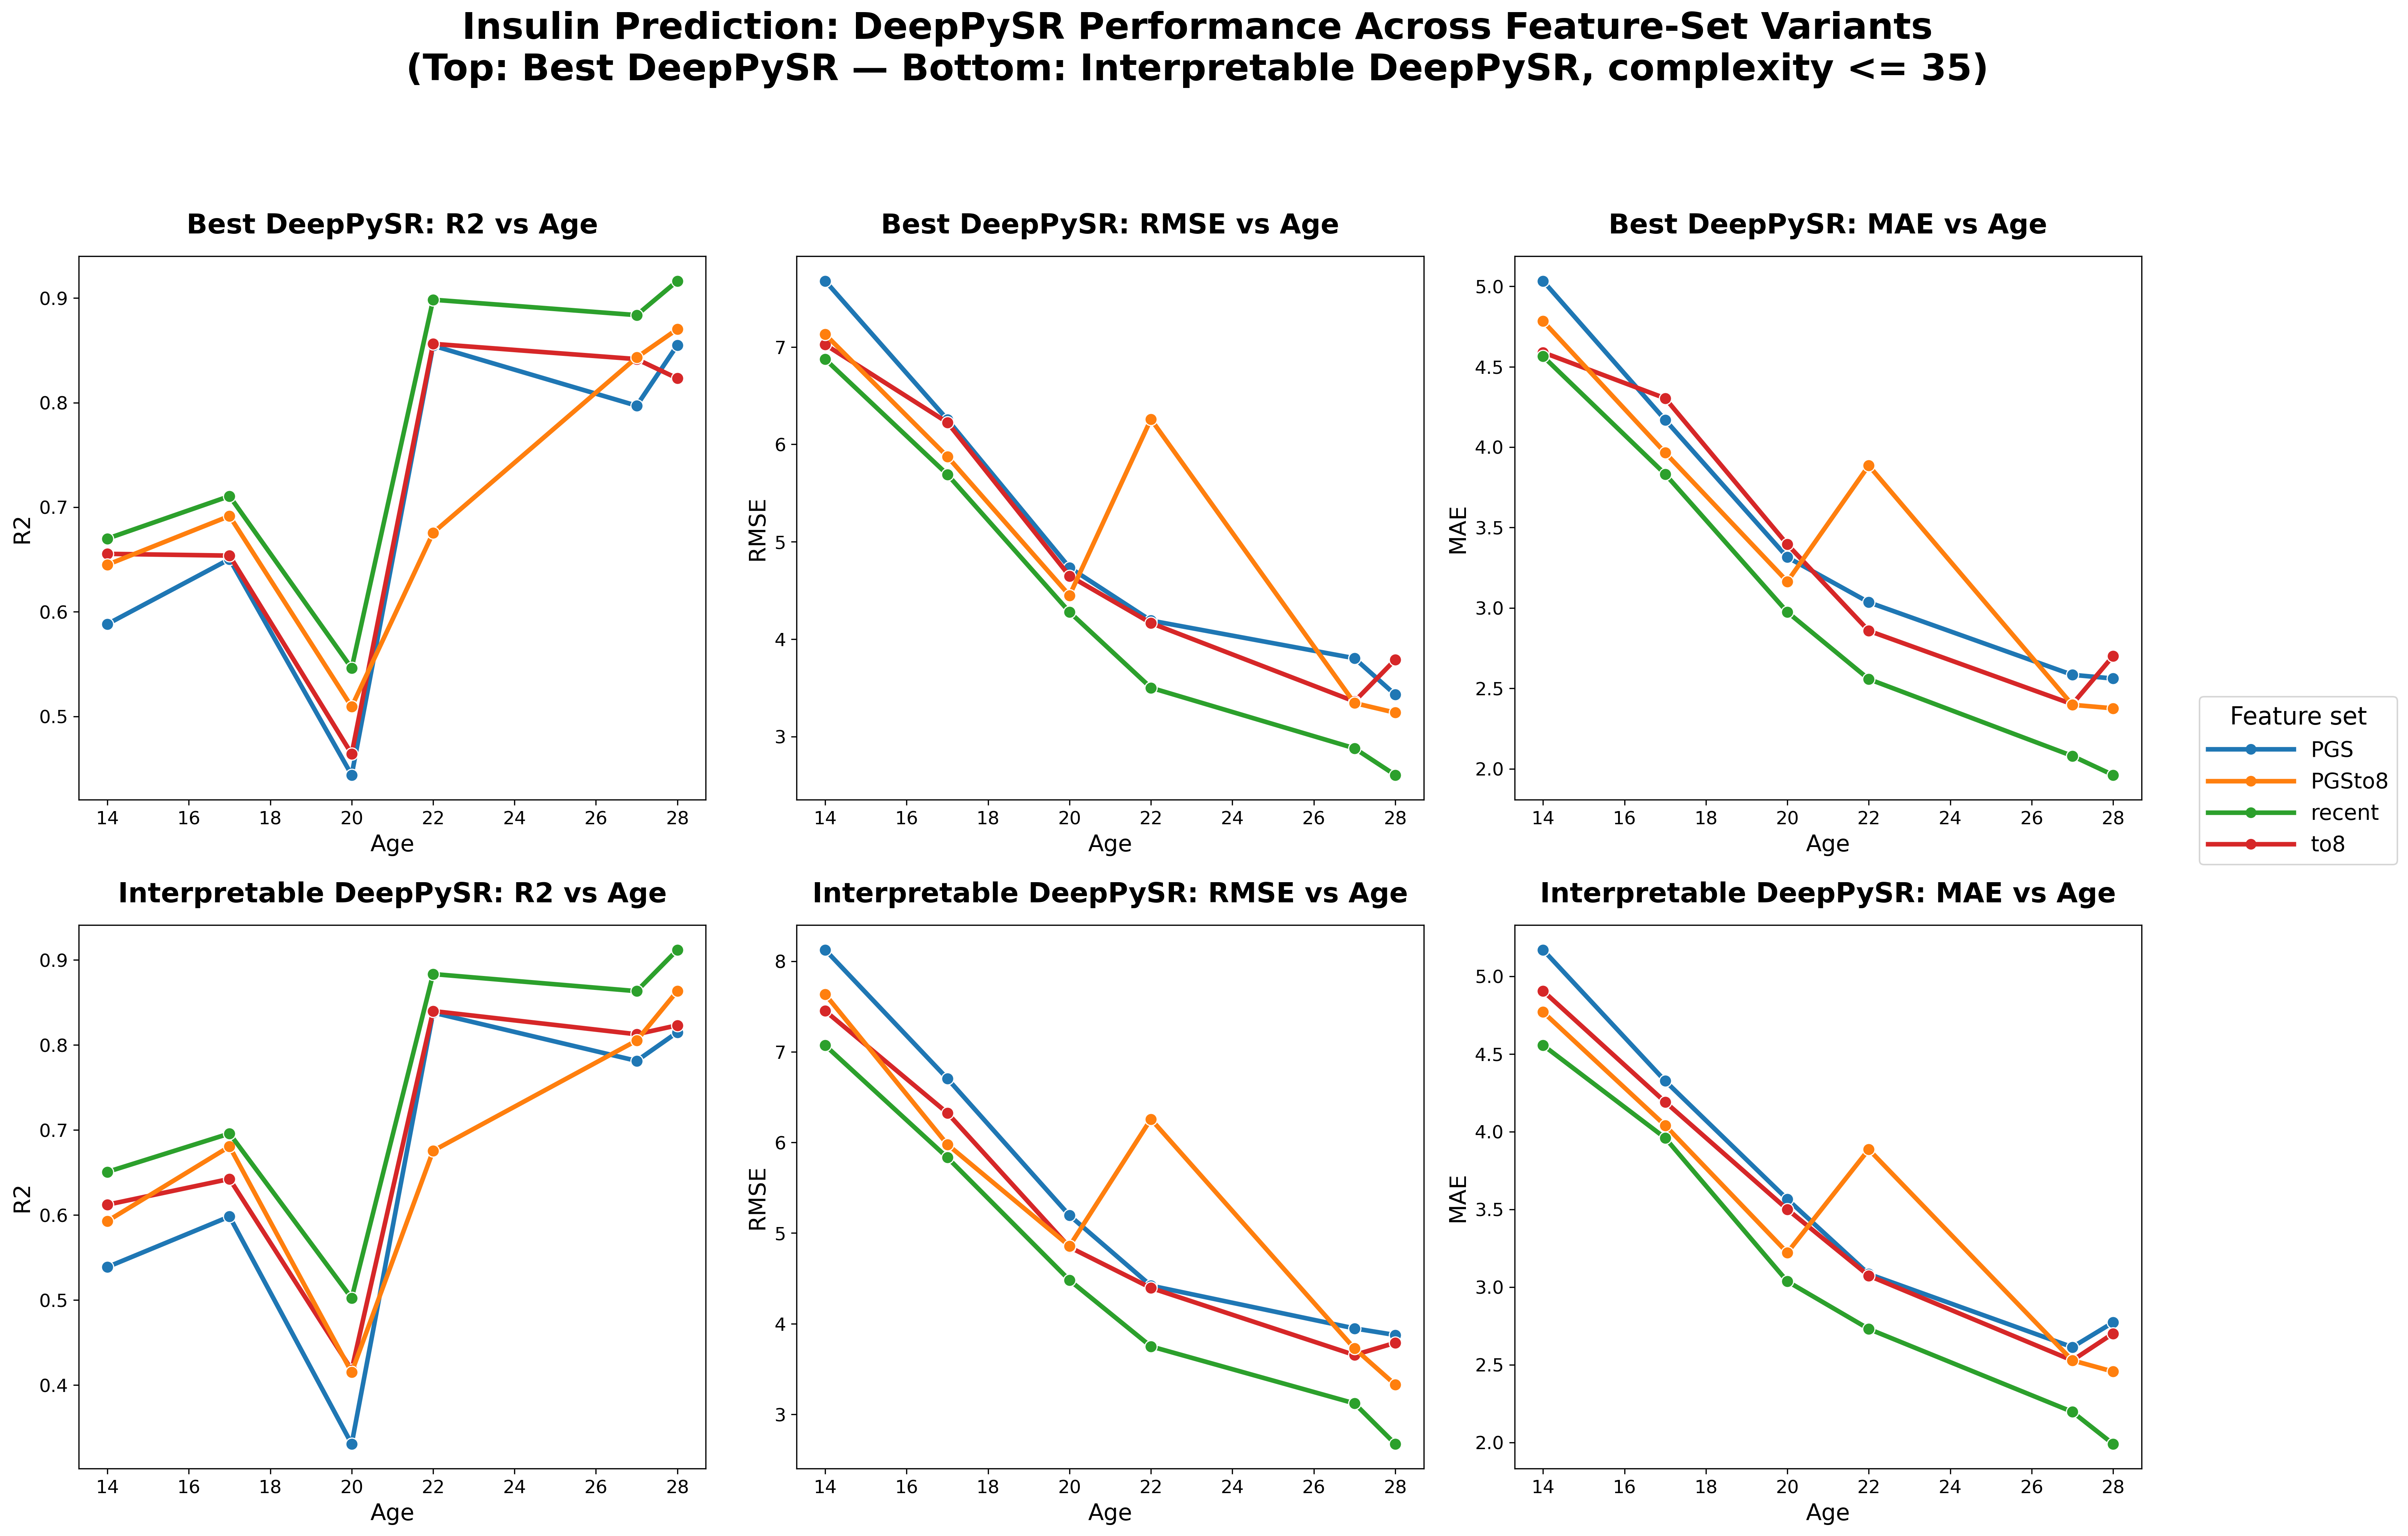
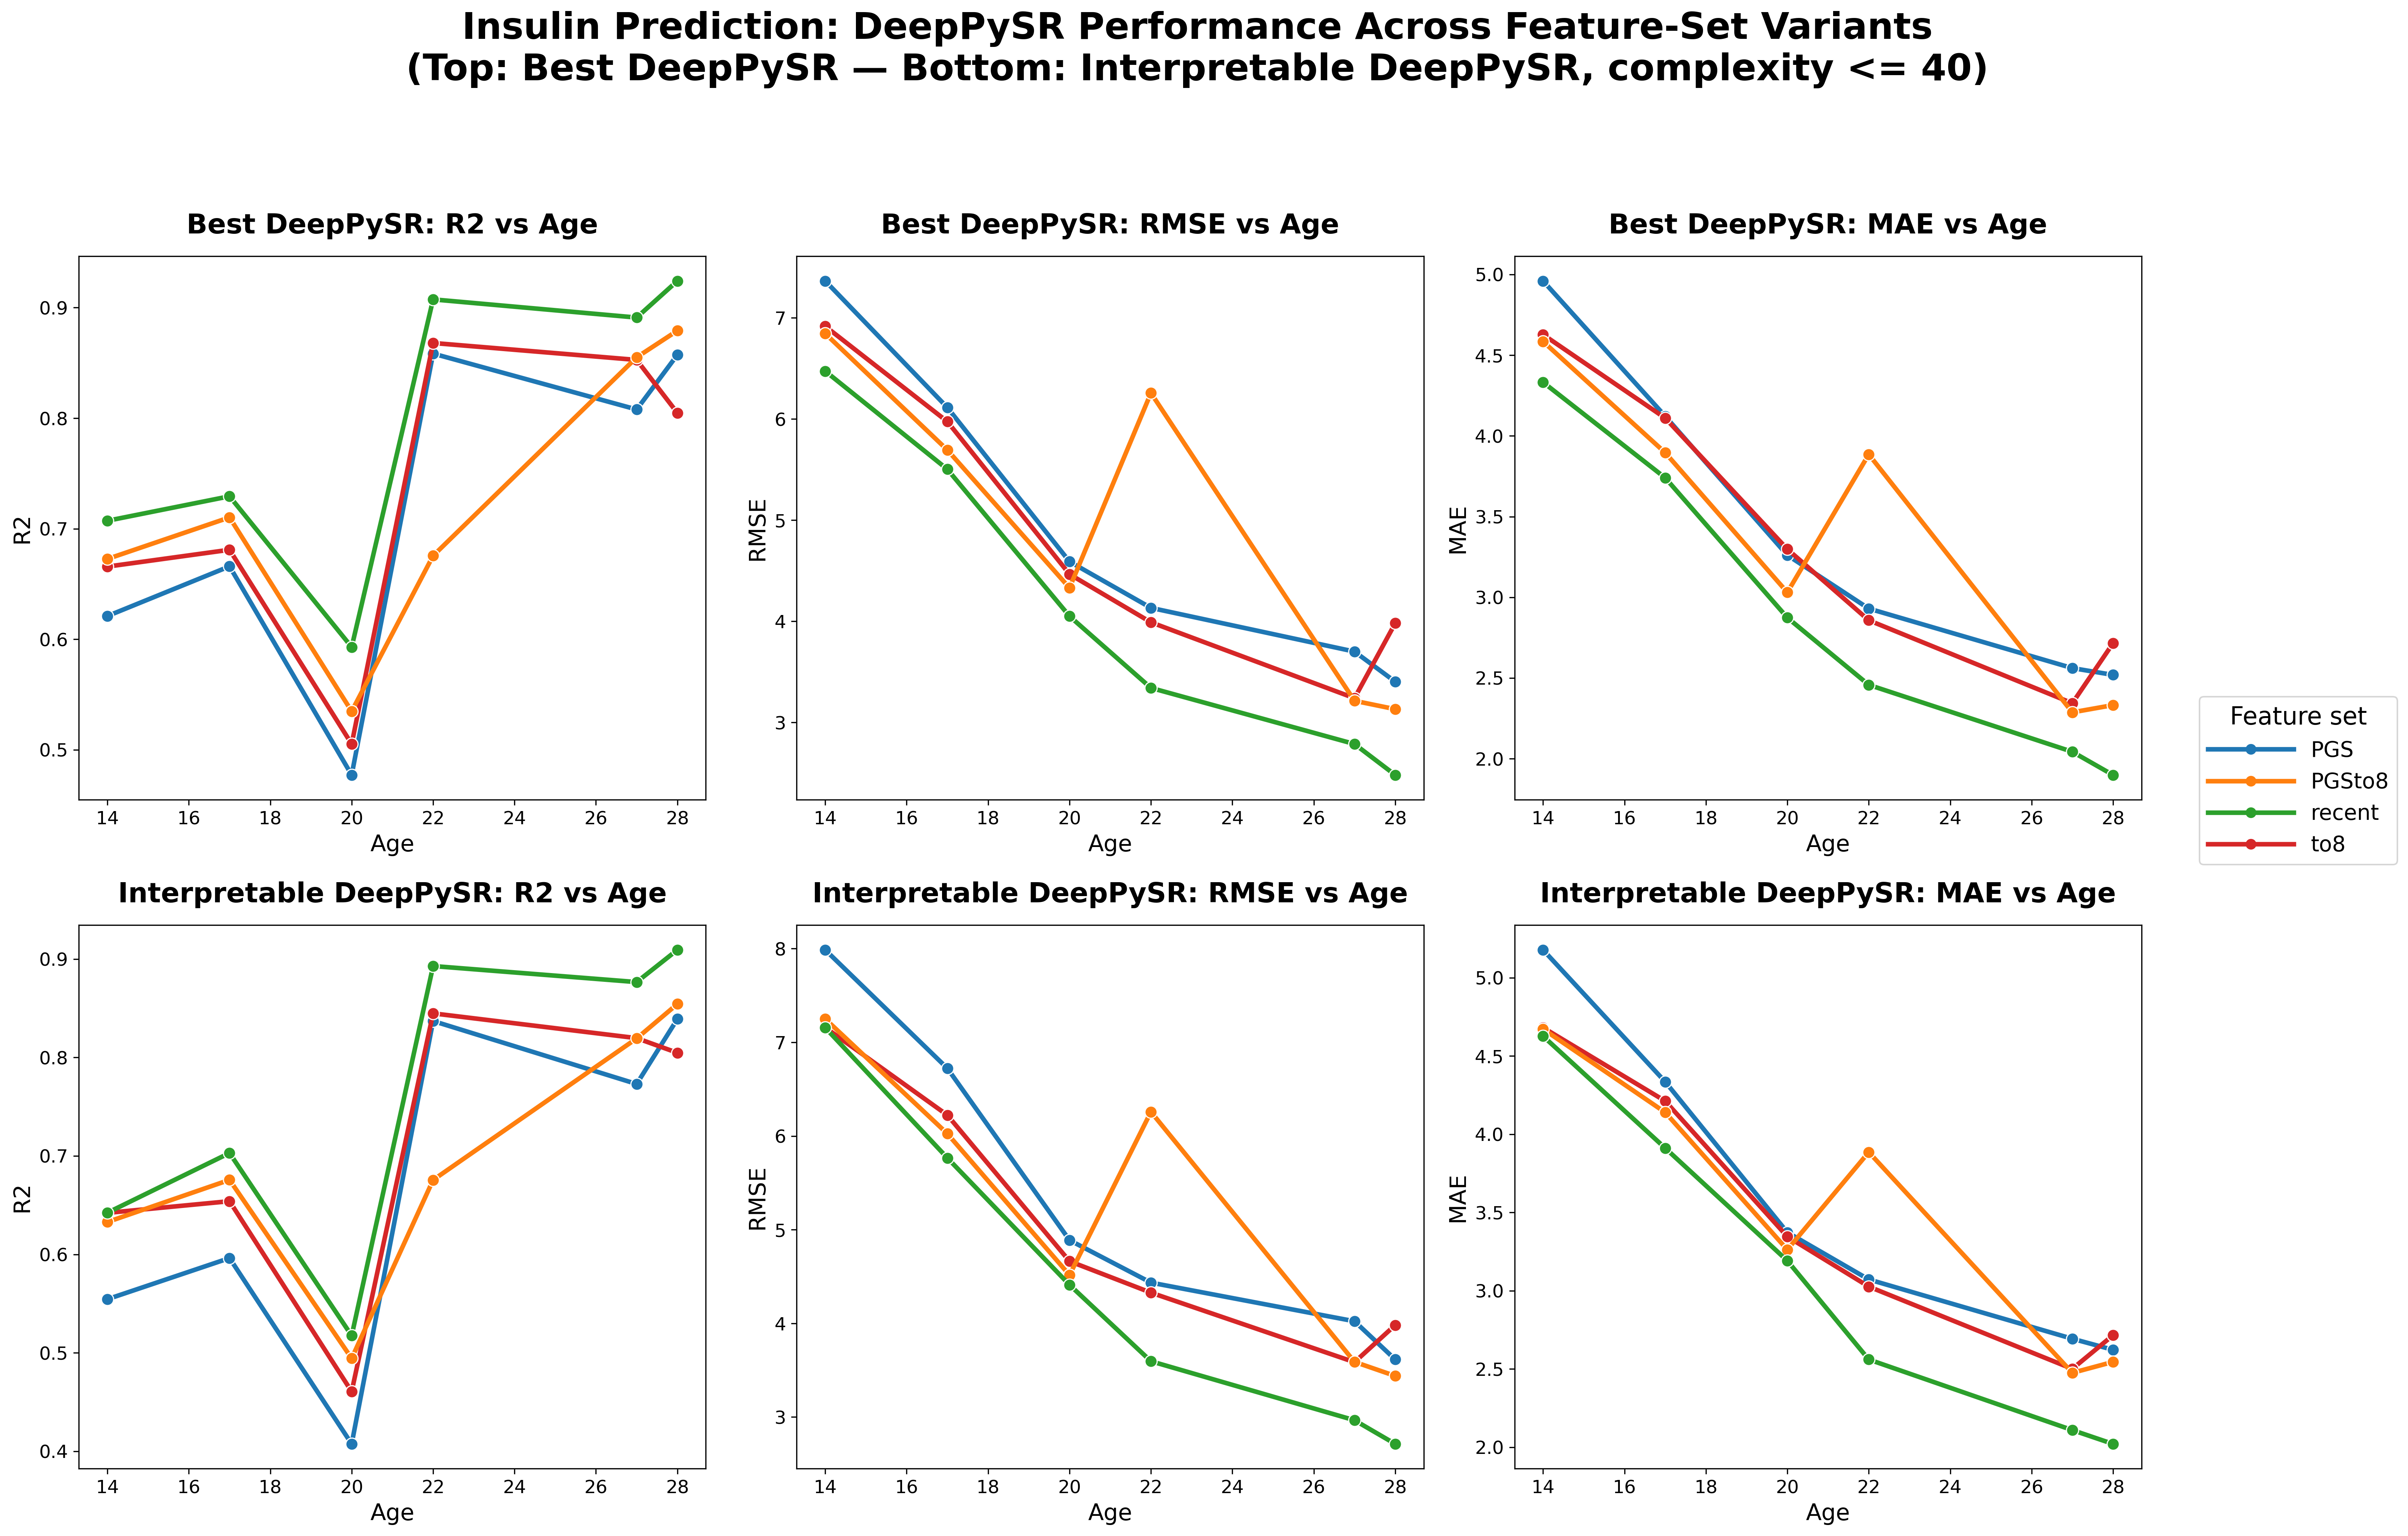
Increase DeepPySR interpretability threshold to 40, standardize dataframes in insulin analysis, extend Sobol sensitivity handling in BMI forecast, and adjust default parameters in tests.

diff --git a/test/bmiforecast/analysis.py b/test/bmiforecast/analysis.py
@@ -15,6 +15,7 @@ import matplotlib.pyplot as plt
 import matplotlib.lines as mlines
 import matplotlib.patches as mpatches
 import seaborn as sns
+from scipy import stats as _scipy_stats
 
 current_dir = os.path.dirname(os.path.abspath(__file__))
 sys.path.append(os.path.abspath(os.path.join(current_dir, '..')))
@@ -1464,11 +1465,22 @@ def _extract_formula_vars(formula_str, available_cols):
     return sorted(t for t in tokens if t not in KNOWN_FUNCS and t in col_set)
 
 
-def save_formula_demonstration(out_dir, n_obs_filter=2, n_sample=10):
+def save_formula_demonstration(out_dir, n_obs_filter=2, n_sample=10, sobol_df=None):
     """For each sampled participant (same selection as plot_sparse_trajectories),
     show the DeepPySR best and interpretable formula, the value of every variable
-    in each formula (with population mean, SD, and this participant's percentile),
-    the predicted BMI, and the true BMI (if observed).
+    in each formula, the predicted BMI, and the true BMI (if observed).
+
+    Per-variable statistics are type-aware:
+      - continuous variables : population mean +/- SD, this participant's percentile,
+        and a two-sided z-test p-value (distance from the population mean in SD units).
+      - binary/categorical variables : population prevalence of the observed level
+        (n / N), and a p-value equal to the empirical frequency of that exact level
+        (small = rare level in the cohort). Percentile is not meaningful for these
+        (it is always 0% or 100%) and is reported as N/A.
+
+    Sobol sensitivity indices (S1, ST) for each variable at each (age, model) are
+    taken from `sobol_df` (as returned by compute_sobol_sensitivity), or loaded from
+    bmiforecast_sobol_sensitivity.csv in out_dir if not provided.
 
     Outputs:
       bmiforecast_formula_demo_{n_obs_filter}_obs.csv   — machine-readable
@@ -1511,9 +1523,11 @@ def save_formula_demonstration(out_dir, n_obs_filter=2, n_sample=10):
     rolling_sub = rolling_df[rolling_df['child_id'].isin(sampled_ids)].set_index('child_id')
     all_cols    = list(rolling_sub.columns)
 
-    # Pre-compute population stats (mean, std, sorted values) for every numeric column
-    # using the full rolling_df so percentiles reflect the whole cohort.
-    col_stats = {}   # col -> {'mean': float, 'std': float, 'sorted': np.ndarray}
+    # Pre-compute population stats for every numeric column using the full rolling_df,
+    # classifying each column as 'binary' (only 0/1), 'categorical' (few, integer-valued
+    # levels), or 'continuous'. Percentile/mean/SD only make sense for continuous vars;
+    # binary/categorical vars get a value-level frequency table instead.
+    col_stats = {}   # col -> dict of stats (contents depend on 'type')
     rolling_idx_full = rolling_df.set_index('child_id')
     for col in all_cols:
         if col not in rolling_idx_full.columns:
@@ -1521,25 +1535,84 @@ def save_formula_demonstration(out_dir, n_obs_filter=2, n_sample=10):
         vals = rolling_idx_full[col].dropna().values.astype(float)
         if len(vals) == 0:
             continue
-        col_stats[col] = {
-            'mean':   float(np.mean(vals)),
-            'std':    float(np.std(vals, ddof=1)) if len(vals) > 1 else 0.0,
-            'sorted': np.sort(vals),
-        }
+        uniq = np.unique(vals)
+        is_integer_valued = np.allclose(uniq, np.round(uniq))
+        if len(uniq) <= 2 and set(uniq.tolist()) <= {0.0, 1.0}:
+            vtype = 'binary'
+        elif len(uniq) <= 10 and is_integer_valued:
+            vtype = 'categorical'
+        else:
+            vtype = 'continuous'
+
+        entry = {'type': vtype, 'n': len(vals)}
+        if vtype == 'continuous':
+            entry['mean']   = float(np.mean(vals))
+            entry['std']    = float(np.std(vals, ddof=1)) if len(vals) > 1 else 0.0
+            entry['sorted'] = np.sort(vals)
+        else:
+            level_vals, level_counts = np.unique(vals, return_counts=True)
+            entry['freq'] = {float(lv): int(lc) for lv, lc in zip(level_vals, level_counts)}
+        col_stats[col] = entry
 
     def _percentile(col, value):
-        """Return 0-100 percentile of value within col's population distribution."""
-        if col not in col_stats or np.isnan(value):
+        """Return 0-100 percentile of value within col's population distribution
+        (continuous columns only)."""
+        st = col_stats.get(col, {})
+        if st.get('type') != 'continuous' or np.isnan(value):
             return np.nan
-        arr = col_stats[col]['sorted']
+        arr = st['sorted']
         if len(arr) == 0:
             return np.nan
         return float(np.searchsorted(arr, value, side='right')) / len(arr) * 100.0
+
+    def _variable_summary(col, value):
+        """Return (type, summary_str, pct, p_value) for a variable's observed value.
+
+        continuous  : summary = 'mean +/- sd'; p_value = two-sided z-test p
+                      testing how far `value` sits from the population mean.
+        binary/categorical : summary = 'n_level/N (freq%)' for the observed level;
+                      p_value = empirical frequency of that exact level (rarity).
+        """
+        st = col_stats.get(col)
+        if st is None or np.isnan(value):
+            return ('unknown', 'N/A', np.nan, np.nan)
+
+        if st['type'] == 'continuous':
+            mean, std = st['mean'], st['std']
+            summary = f'{mean:.4f} ± {std:.4f}'
+            pct = _percentile(col, value)
+            if std > 0:
+                z = (value - mean) / std
+                p_value = float(2.0 * _scipy_stats.norm.sf(abs(z)))
+            else:
+                p_value = np.nan
+            return (st['type'], summary, pct, p_value)
+
+        # binary / categorical
+        n_total = st['n']
+        # Match the observed value to the nearest recorded level (guards float noise).
+        level = min(st['freq'].keys(), key=lambda lv: abs(lv - value)) if st['freq'] else value
+        count = st['freq'].get(level, 0)
+        freq  = count / n_total if n_total else np.nan
+        summary = f'level={level:g}  n={count}/{n_total} ({freq*100:.1f}%)'
+        return (st['type'], summary, np.nan, freq)
 
     DEMO_MODELS = [
         ('DeepPySR',                 'deeppysr'),
         ('DeepPySR (Interpretable)', 'deeppysr'),
     ]
+
+    # Sobol sensitivity lookup: (age, model, variable) -> (S1, ST). Sensitivity depends
+    # only on the (age, model) formula, not on the participant, so this is computed once
+    # (via compute_sobol_sensitivity) and shared across all participants/n_obs_filter calls.
+    if sobol_df is None:
+        _sobol_csv = os.path.join(out_dir, 'bmiforecast_sobol_sensitivity.csv')
+        sobol_df = pd.read_csv(_sobol_csv) if os.path.exists(_sobol_csv) else None
+    sobol_lookup = {}
+    if sobol_df is not None and len(sobol_df):
+        for _, r in sobol_df.iterrows():
+            sobol_lookup[(int(r['age']), r['model'], r['variable'])] = (
+                float(r['S1']), float(r['ST']))
 
     # True BMI per (cid, age)
     def true_bmi_at(cid, age):
@@ -1564,9 +1637,9 @@ def save_formula_demonstration(out_dir, n_obs_filter=2, n_sample=10):
         f'Formula Demonstration — {n_obs_filter} Observed BMI Participants\n'
         + '=' * 70)
 
-    for cid in sampled_ids:
+    for p_num, cid in enumerate(sampled_ids, start=1):
         text_lines.append(f'\n{"─"*70}')
-        text_lines.append(f'Participant ID: {cid}')
+        text_lines.append(f'Participant {p_num}  (ID: {cid})')
         text_lines.append(f'{"─"*70}')
 
         if cid not in rolling_sub.index:
@@ -1589,18 +1662,14 @@ def save_formula_demonstration(out_dir, n_obs_filter=2, n_sample=10):
 
                 var_names = _extract_formula_vars(formula, all_cols)
 
-                # Gather value, mean, std, percentile per variable
-                var_info = {}   # varname -> (value, mean, std, pct)
+                # Gather value, type-aware summary, percentile, p-value, Sobol indices
+                var_info = {}   # varname -> (value, vtype, summary, pct, p_value, S1, ST)
                 for v in var_names:
                     raw = row_data[v] if v in row_data.index else np.nan
                     val = float(raw) if pd.notna(raw) else np.nan
-                    st  = col_stats.get(v, {})
-                    var_info[v] = (
-                        val,
-                        st.get('mean', np.nan),
-                        st.get('std',  np.nan),
-                        _percentile(v, val),
-                    )
+                    vtype, summary, pct, p_value = _variable_summary(v, val)
+                    s1, st_ix = sobol_lookup.get((age, label, v), (np.nan, np.nan))
+                    var_info[v] = (val, vtype, summary, pct, p_value, s1, st_ix)
 
                 try:
                     yp_arr = evaluate_formula(str(formula), X_row, model_type=model_type)
@@ -1611,30 +1680,40 @@ def save_formula_demonstration(out_dir, n_obs_filter=2, n_sample=10):
 
                 text_lines.append(f'    [{label}]')
                 text_lines.append(f'      Formula : {formula}')
-                text_lines.append(f'      {"Variable":<35}  {"Value":>9}  {"Mean":>9}  {"SD":>9}  {"Pctile":>7}')
-                text_lines.append(f'      {"─"*35}  {"─"*9}  {"─"*9}  {"─"*9}  {"─"*7}')
-                for vname, (val, mean, std, pct) in sorted(var_info.items()):
-                    v_str    = f'{val:.4f}'   if not np.isnan(val)  else 'NaN'
-                    mean_str = f'{mean:.4f}'  if not np.isnan(mean) else 'NaN'
-                    std_str  = f'{std:.4f}'   if not np.isnan(std)  else 'NaN'
-                    pct_str  = f'{pct:.1f}%'  if not np.isnan(pct)  else 'NaN'
-                    text_lines.append(f'      {vname:<35}  {v_str:>9}  {mean_str:>9}  {std_str:>9}  {pct_str:>7}')
+                text_lines.append(
+                    f'      {"Variable":<24} {"Type":<11} {"Value":>9}  '
+                    f'{"Summary (mean±SD or level freq)":<38} {"Pctile":>7} '
+                    f'{"p-value":>9} {"Sobol S1":>9} {"Sobol ST":>9}')
+                text_lines.append(f'      {"─"*24} {"─"*11} {"─"*9}  {"─"*38} {"─"*7} {"─"*9} {"─"*9} {"─"*9}')
+                for vname, (val, vtype, summary, pct, p_value, s1, st_ix) in sorted(var_info.items()):
+                    v_str   = f'{val:.4f}'    if not np.isnan(val)     else 'NaN'
+                    pct_str = f'{pct:.1f}%'   if not np.isnan(pct)     else 'N/A'
+                    p_str   = f'{p_value:.4g}' if not np.isnan(p_value) else 'NaN'
+                    s1_str  = f'{s1:.3f}'     if not np.isnan(s1)      else 'N/A'
+                    st_str  = f'{st_ix:.3f}'  if not np.isnan(st_ix)   else 'N/A'
+                    text_lines.append(
+                        f'      {vname:<24} {vtype:<11} {v_str:>9}  {summary:<38} '
+                        f'{pct_str:>7} {p_str:>9} {s1_str:>9} {st_str:>9}')
                 text_lines.append(f'      Predicted BMI : '
                                   + (f'{bmi_pred:.4f}' if not np.isnan(bmi_pred) else 'NaN'))
 
                 # One CSV row per variable (long format)
-                for vname, (val, mean, std, pct) in sorted(var_info.items()):
+                for vname, (val, vtype, summary, pct, p_value, s1, st_ix) in sorted(var_info.items()):
                     csv_rows.append({
-                        'n_obs':      n_obs_filter,
-                        'child_id':   cid,
+                        'n_obs':               n_obs_filter,
+                        'participant_number':  p_num,
+                        'child_id':            cid,
                         'age':        age,
                         'model':      label,
                         'formula':    formula,
                         'variable':   vname,
-                        'value':      round(val,  4) if not np.isnan(val)  else np.nan,
-                        'pop_mean':   round(mean, 4) if not np.isnan(mean) else np.nan,
-                        'pop_sd':     round(std,  4) if not np.isnan(std)  else np.nan,
-                        'percentile': round(pct,  1) if not np.isnan(pct)  else np.nan,
+                        'var_type':   vtype,
+                        'value':      round(val, 4) if not np.isnan(val) else np.nan,
+                        'summary':    summary,
+                        'percentile': round(pct, 1) if not np.isnan(pct) else np.nan,
+                        'p_value':    p_value if not np.isnan(p_value) else np.nan,
+                        'sobol_S1':   s1 if not np.isnan(s1) else np.nan,
+                        'sobol_ST':   st_ix if not np.isnan(st_ix) else np.nan,
                         'bmi_pred':   round(bmi_pred, 4) if not np.isnan(bmi_pred) else np.nan,
                         'bmi_true':   round(true_val, 4) if not np.isnan(true_val) else np.nan,
                     })
@@ -1897,12 +1976,12 @@ if __name__ == '__main__':
     for n in [2, 3, 4, 5]:
         plot_sparse_trajectories(out_dir, n_obs_filter=n, mlp_model=_mlp_model)
 
+    print('=== Computing Sobol sensitivity indices ===')
+    sobol_df = compute_sobol_sensitivity(out_dir)
+
     print('=== Saving formula demonstrations ===')
     for n in [2, 3, 4, 5]:
         print(f'  n_obs={n}')
-        save_formula_demonstration(out_dir, n_obs_filter=n)
-
-    print('=== Computing Sobol sensitivity indices ===')
-    compute_sobol_sensitivity(out_dir)
+        save_formula_demonstration(out_dir, n_obs_filter=n, sobol_df=sobol_df)
 
     print('\nDone.')

diff --git a/test/diab_raine/analysis_insulin_variant.py b/test/diab_raine/analysis_insulin_variant.py
@@ -129,7 +129,7 @@ def _select_best_models(df):
             best = deeppysr_df.loc[deeppysr_df['r2'].idxmax()].copy()
             best['display_model'] = 'Best DeepPySR'
             selected_data.append(best)
-            interp = deeppysr_df[deeppysr_df['complexity'] <= 35]
+            interp = deeppysr_df[deeppysr_df['complexity'] <= 40]
             if not interp.empty:
                 bi = interp.loc[interp['r2'].idxmax()].copy()
                 bi['display_model'] = 'Interpretable DeepPySR'
@@ -158,7 +158,7 @@ def _select_best_models(df):
                 row['display_model'] = b
                 selected_data.append(row)
 
-    return pd.DataFrame(selected_data), interpretable_formulas
+    return pd.DataFrame(selected_data).reset_index(drop=True), interpretable_formulas
 
 
 def plot_results(df, results_dir, variant_name):
@@ -202,7 +202,7 @@ def plot_results(df, results_dir, variant_name):
     print(f"Plot saved to {plot_path}")
 
     if interpretable_formulas:
-        print(f"\n--- Interpretable DeepPySR Formulas for {variant_name} (Complexity <= 35) ---")
+        print(f"\n--- Interpretable DeepPySR Formulas for {variant_name} (Complexity <= 40) ---")
         interp_df = pd.DataFrame(interpretable_formulas)
         print(interp_df.to_string(index=False))
         interp_df.to_csv(os.path.join(results_dir, 'interpretable_deeppysr_formulas.csv'), index=False)
@@ -428,7 +428,7 @@ def plot_combined(combined_df):
     fig.legend(handles=legend_elements, loc='center left', bbox_to_anchor=(0.91, 0.5),
                fontsize=14, frameon=True, title='Feature set', title_fontsize=16, handlelength=4.0)
     plt.suptitle('Insulin Prediction: DeepPySR Performance Across Feature-Set Variants\n'
-                 '(Top: Best DeepPySR — Bottom: Interpretable DeepPySR, complexity <= 35)',
+                 '(Top: Best DeepPySR — Bottom: Interpretable DeepPySR, complexity <= 40)',
                  fontsize=24, fontweight='bold', y=1.0)
     plt.tight_layout(rect=[0, 0, 0.9, 0.95])
     plot_path = os.path.join(current_dir, 'insulin_deeppysr_metrics_vs_age_combined.png')

diff --git a/test/diab_raine/test_deeppysr_insulin_to8.py b/test/diab_raine/test_deeppysr_insulin_to8.py
@@ -25,10 +25,10 @@ _LOAD_FN = {
 
 def main():
     parser = argparse.ArgumentParser()
-    parser.add_argument('--test', type=str, required=True,
+    parser.add_argument('--test', type=str, default='PGSto8',
                         choices=['PGS', 'to8', 'PGSto8'],
                         help='Which feature set to use')
-    parser.add_argument('--age', type=int, default=17,
+    parser.add_argument('--age', type=int, default=22,
                         choices=_INSULIN_AGES)
     parser.add_argument('--vps', type=int, default=25)
     args = parser.parse_args()
@@ -93,7 +93,7 @@ def main():
                 **kwargs,
             )
 
-        run_cv(deeppysr_factory, X, y, outdir=deeppysr_out, scaler=False, **cv_kwargs)
+        run_cv(deeppysr_factory, X, y, outdir=deeppysr_out, scaler=True, **cv_kwargs)
 
     print(f"\nAggregating results for {run_name}...")
     aggregate_results(run_out, task='regression')